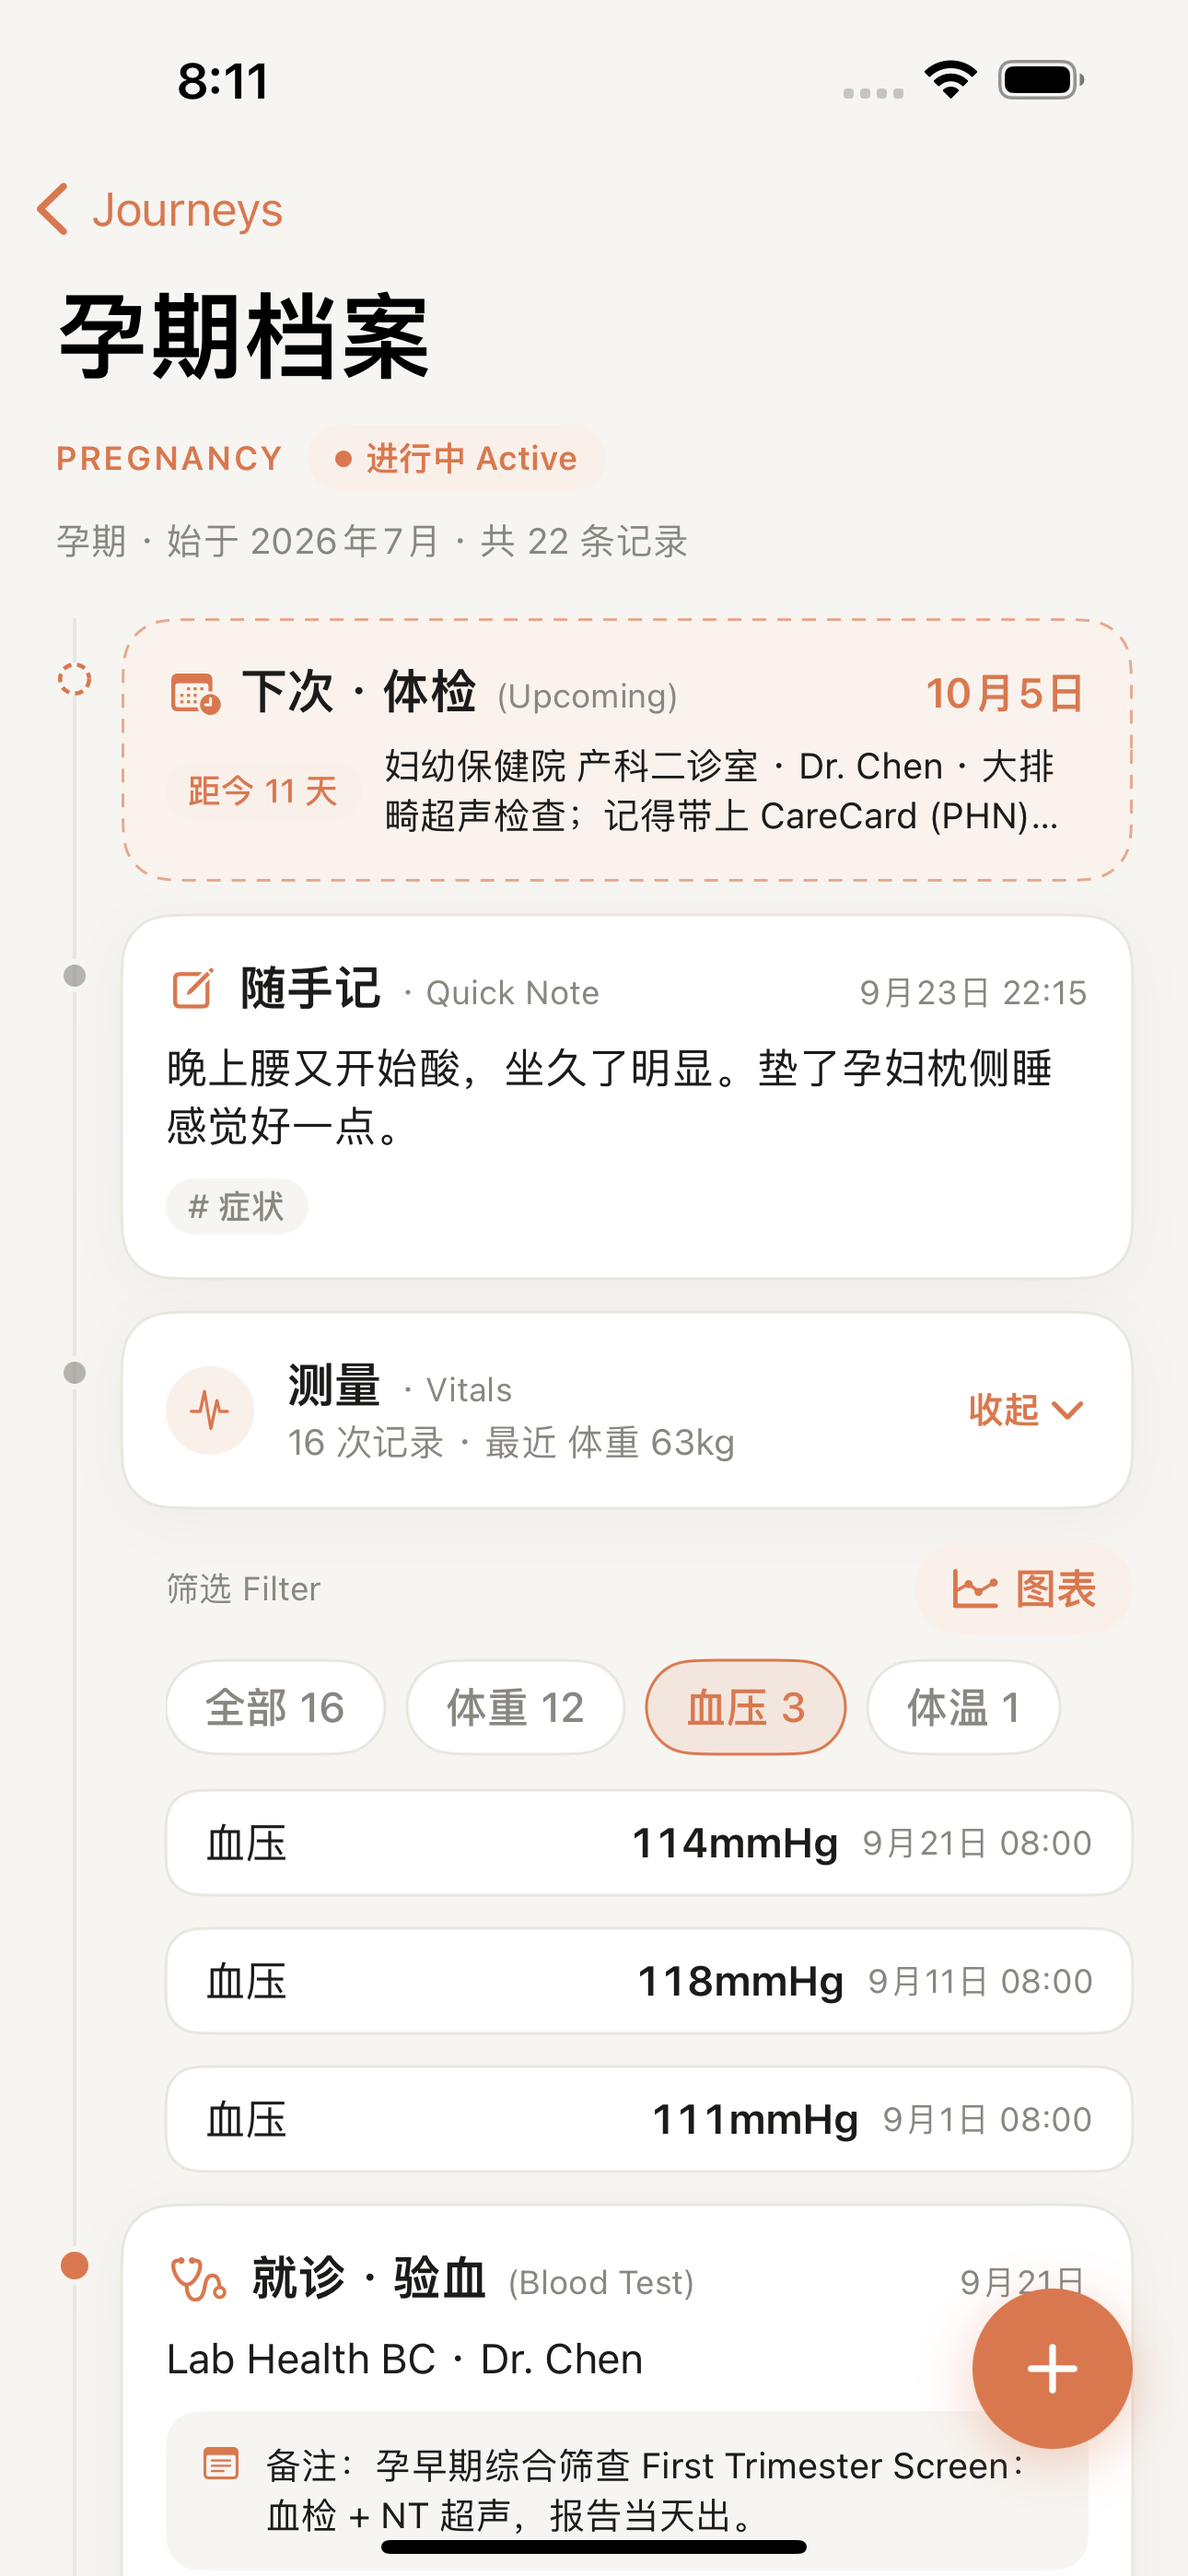
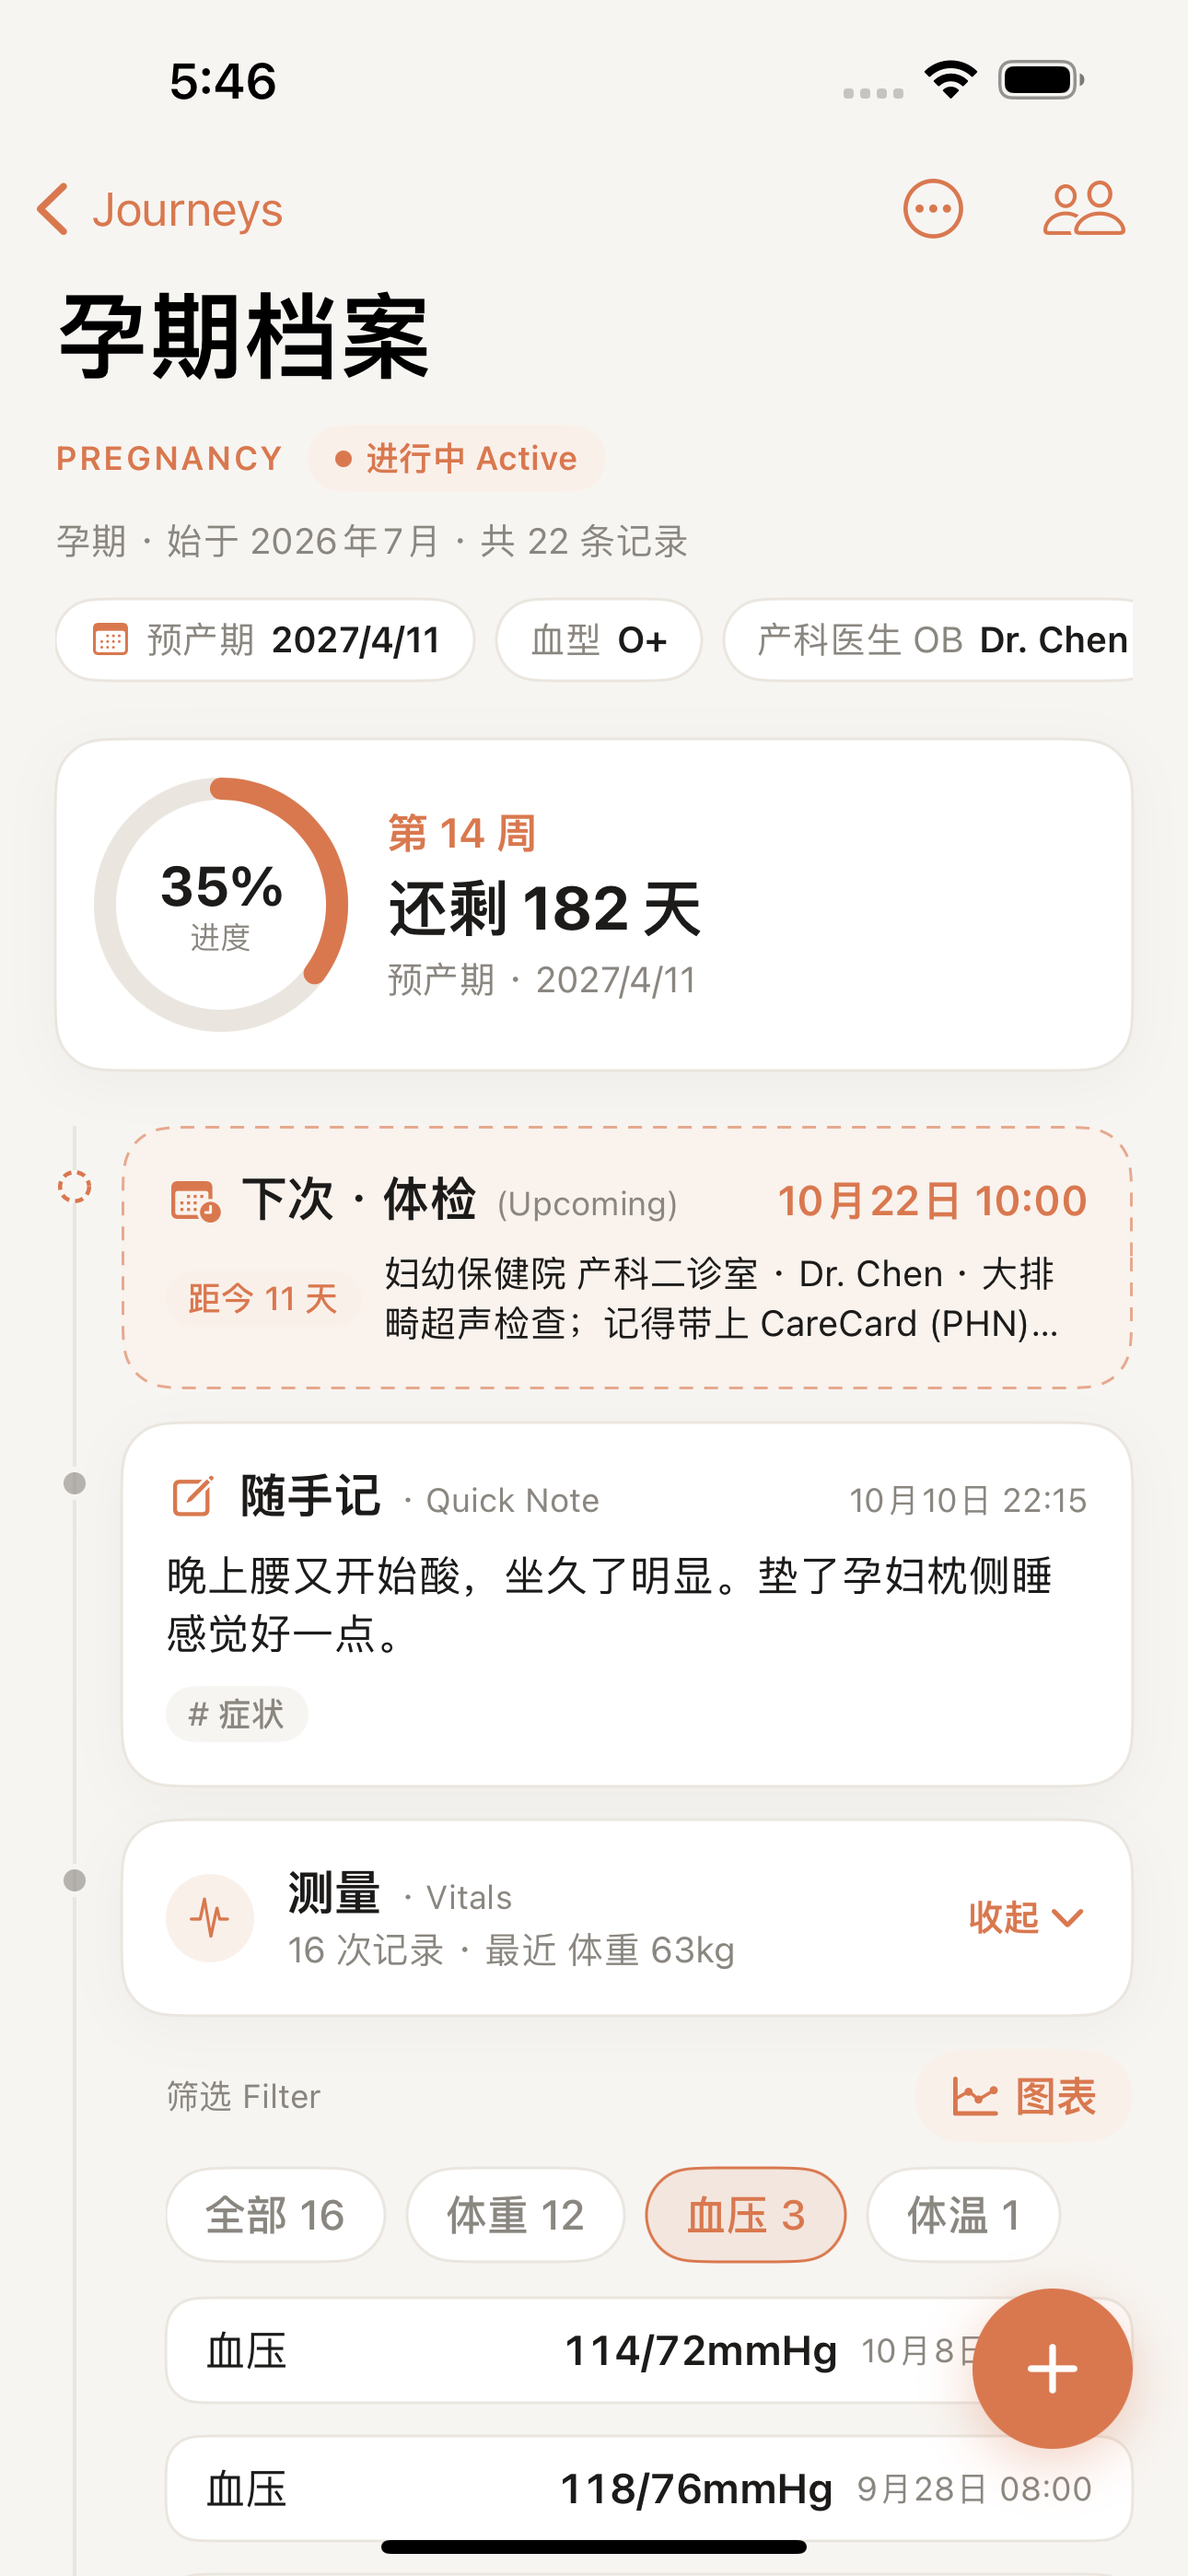
docs: M8 code complete - status lines, regenerated documentation screenshots

diff --git a/docs/README.md b/docs/README.md
@@ -1,12 +1,12 @@
 # docs 索引（2026-10-11）
 
-> 状态：**1.1 开发中（M8）**；1.0.1 已上架。入口：根目录 `CLAUDE.md`。
+> 状态：**1.1 代码完成（M8，待提审前动作）**；1.0.1 已上架。入口：根目录 `CLAUDE.md`。
 > 结构：里程碑卡按发布版本归档在 `releases/<版本>/`；跨版本的文档（spec、backlog、owner-actions、调研）留在 `docs/` 根。
 
 ## 里程碑（按版本）
 | 版本 | 里程碑 | 状态 |
 |---|---|---|
-| **1.1** | `releases/1.1/m8-tasks.md` | **进行中**：生态整合批 T51–T60（提醒 / Health / Journey 概要与目标日 / 血压双值 / Widget / 随手记附件 / 地点联想） |
+| **1.1** | `releases/1.1/m8-tasks.md` | **代码完成**（2026-10-11）：生态整合批 T51–T60（提醒 / Health / Journey 概要与目标日 / 血压双值 / Widget / 随手记附件 / 地点联想）；余 owner-actions「1.1 提审前」与真机复核 |
 | **1.0.1** | `releases/1.0.1/m7-tasks.md` | **代码完成**（2026-10-01）：自用反馈 T42–T47、T49–T50 + 共享同步 bug T48，不改 schema；余真机复核 |
 | **1.0** | `releases/1.0/m6-tasks.md` | **进行中**：T39 CKShare（代码完成，余 schema 部署/双机联调）· T40 产检真机验收 · T41 提审材料包（余 ASC 侧动作）· 发布流程指向 owner-actions |
 | 1.0 | `releases/1.0/m5-tasks.md` | 已完成（T30–T38；T38 撤销，见文内更新行） |

diff --git a/CLAUDE.md b/CLAUDE.md
@@ -3,7 +3,7 @@
 ## 项目是什么
 
 Carelogue：iOS 患者就医旅程记录 app（SwiftUI + SwiftData + CloudKit）。
-当前阶段：**1.1 开发中（M8）**——1.0 / 1.0.1 已上架（App Store 1.0.1）。M8（`docs/releases/1.1/m8-tasks.md`）：生态整合批 T51–T60（求好评 / 复诊+用药提醒 / Apple Health / Journey 概要与目标日 / 血压双值 / Widget / 随手记附件 / MapKit 地点联想），按卡内「排期建议」顺序推进；schema 变更随卡走（卡内已授权）。M7（`docs/releases/1.0.1/m7-tasks.md`）余真机复核（见各卡「待真机复核」）。
+当前阶段：**1.1 代码完成（M8，2026-10-11）**——1.0 / 1.0.1 已上架（App Store 1.0.1）。M8（`docs/releases/1.1/m8-tasks.md`）：生态整合批 T51–T60 全部落地；余提审前动作（`docs/owner-actions.md`「🆕 1.1（M8）提审前」）与真机复核。工程结构新增：`CarelogueWidget/`（Widget 扩展 target）+ `Shared/`（app 与 Widget 共用代码，两个 target 都编译）。M7（`docs/releases/1.0.1/m7-tasks.md`）余真机复核（见各卡「待真机复核」）。
 
 ## 先读这些（按序）
 

diff --git a/docs/releases/1.1/m8-tasks.md b/docs/releases/1.1/m8-tasks.md
@@ -1,7 +1,7 @@
-# M8 · v1.1（生态整合批 · ✅ FINALIZED 2026-10-11）
+# M8 · v1.1（生态整合批 · ✅ 代码完成 2026-10-11）
 
 > 来源：2026-10-11 讨论（求好评 / 复诊提醒 / 用药提醒 / Apple Health / Journey 元数据与进度）+ backlog。
-> 状态：**✅ FINALIZED（2026-10-11）——CC 可以开工**。开工按「排期建议」顺序，一次一卡（流程照 CLAUDE.md：先复述理解+计划，确认后动手）。
+> 状态：**✅ 代码完成（2026-10-11）**——T51–T60 全部落地，每卡一个 commit；全量 UI 测试浅色 86/86（6 个截图用例适配后重跑通过）、深色 86/86；文档截图已按 demo 数据重拍。余：owner-actions「🆕 1.1（M8）提审前」各项（CloudKit schema 部署、HealthKit/App Group/Widget 签名、隐私政策上线、真机复核），以及 T54「提审风险」需老板知悉。
 > 约束：本地通知（不引入服务器，保持 local-first）；schema 变更随功能走（CloudKit 兼容：非 optional 默认值、无 unique）；UI 文案一律进 String Catalog（中英）。
 
 ---
